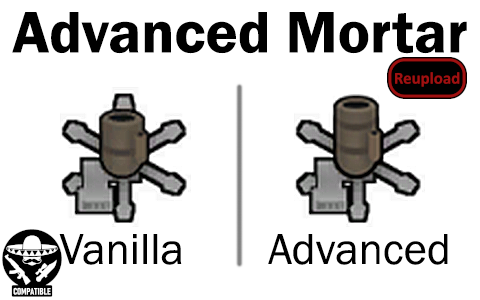
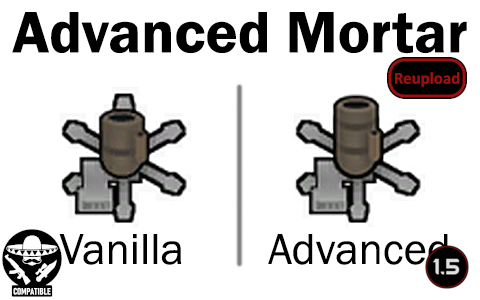
Mod updated for 1.5 and passed autotests

Changed region(s): [[0.875, 0.81, 1.0, 0.96]]

diff --git a/README.md b/README.md
@@ -32,11 +32,13 @@ https://youtu.be/io3NHBKQSQ4
 
 -  See if the the error persists if you just have this mod and its requirements active.
 -  If not, try adding your other mods until it happens again.
--  Post your error-log using https://steamcommunity.com/workshop/filedetails/?id=818773962]HugsLib and command Ctrl+F12
+-  Post your error-log using https://steamcommunity.com/workshop/filedetails/?id=818773962]HugsLib or the standalone https://steamcommunity.com/sharedfiles/filedetails/?id=2873415404]Uploader and command Ctrl+F12
 -  For best support, please use the Discord-channel for error-reporting.
 -  Do not report errors by making a discussion-thread, I get no notification of that.
 -  If you have the solution for a problem, please post it to the GitHub repository.
+-  Use https://github.com/RimSort/RimSort/releases/latest]RimSort to sort your mods
 
 
 
+https://steamcommunity.com/sharedfiles/filedetails/changelog/2023771298]![Image](https://img.shields.io/github/v/release/emipa606/AdvancedMortar?label=latest%20version&style=plastic&color=9f1111&labelColor=black)
 
